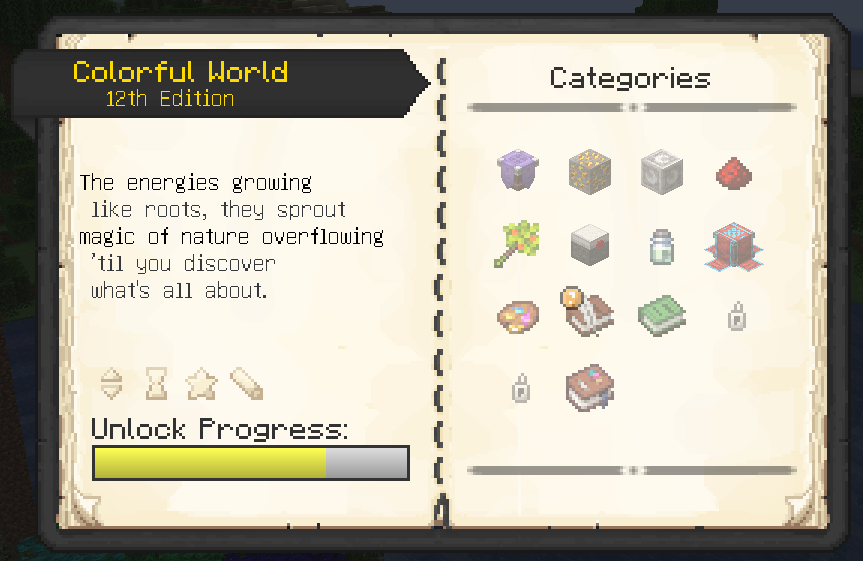
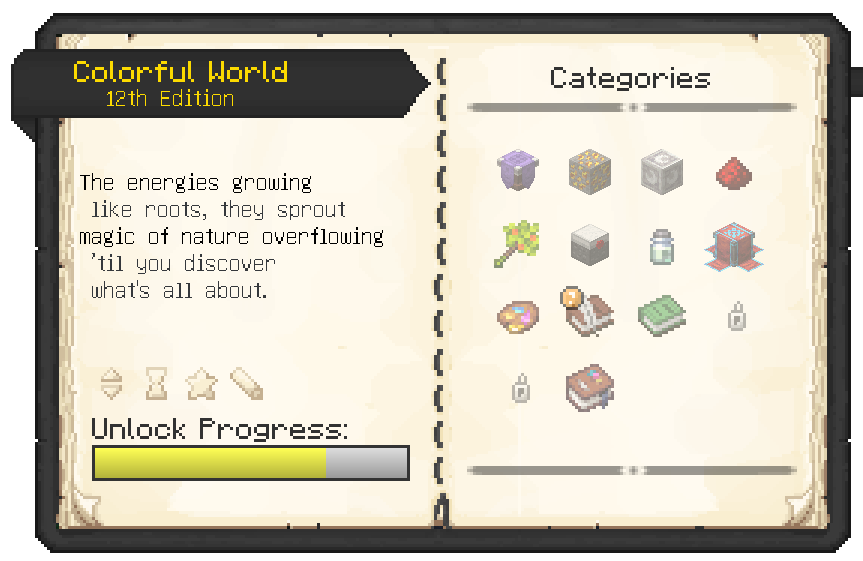
updated revelation image + transparency

Changed region(s): [[0.0, 0.0, 1.0, 1.0]]

diff --git a/README.md b/README.md
@@ -41,7 +41,7 @@ Just because something looks like stone doesn't mean it is...
 
 There is a lot to uncover and lots of discoveries to be made.
 
-![Revelations](/images/readme/revelations.webp)
+![Revelations](/images/readme/revelation.png)
 
 ## Is this mod for me?
 **You might enjoy Spectrum if you like the following:** Outer Wilds; Myst; Thaumcraft; Chromaticraft; figuring out how
